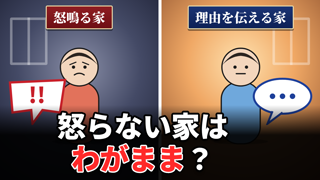
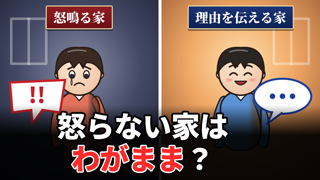
ヒト図鑑サムネ：表情つきの漫画風人物でラフを作り直し、Gemini 用の挿絵依頼文を追加（表情で参考サムネと差別化）
Claude-Session: https://claude.ai/code/session_01Hy8jqjRYqVWafwMXUy1tDD

diff --git a/video/src/HitoCharacter.tsx b/video/src/HitoCharacter.tsx
@@ -1,0 +1,149 @@
+// ヒト図鑑の人物（自作 SVG・漫画風）。社長指示 2026-11-28：参考サムネの漫画風の描き方を取り入れ、
+// 参考にない「はっきりした表情」で差別化する。他者の画像のトレース・流用はしない。
+import React from 'react';
+
+export type Expression = 'happy' | 'neutral' | 'worried' | 'shocked' | 'sad' | 'proud';
+export type Build = 'slim' | 'round' | 'child' | 'adult';
+
+const LINE = '#2a1d17';
+
+const Eyes: React.FC<{e: Expression}> = ({e}) => {
+  if (e === 'happy' || e === 'proud') {
+    // 笑って細くなった目
+    return (
+      <g stroke={LINE} strokeWidth="7" fill="none" strokeLinecap="round">
+        <path d="M -48 -2 Q -32 -20 -16 -2" />
+        <path d="M 16 -2 Q 32 -20 48 -2" />
+      </g>
+    );
+  }
+  const r = e === 'shocked' ? 17 : 15;
+  const pupil = e === 'shocked' ? 6 : 10;
+  return (
+    <g>
+      {[-32, 32].map((x) => (
+        <g key={x}>
+          <ellipse cx={x} cy="-4" rx={r * 0.85} ry={r * 1.15} fill="#fff" stroke={LINE} strokeWidth="5" />
+          <circle cx={x + (e === 'worried' || e === 'sad' ? 0 : 2)} cy={e === 'sad' ? 2 : -1} r={pupil} fill="#2b2b3a" />
+          <circle cx={x + 5} cy="-9" r="4" fill="#fff" />
+        </g>
+      ))}
+    </g>
+  );
+};
+
+const Brows: React.FC<{e: Expression}> = ({e}) => {
+  const d: Record<Expression, string> = {
+    happy: 'M -50 -38 Q -32 -50 -14 -40 M 14 -40 Q 32 -50 50 -38',
+    proud: 'M -50 -40 Q -32 -52 -14 -44 M 14 -44 Q 32 -52 50 -40',
+    neutral: 'M -48 -36 L -16 -38 M 16 -38 L 48 -36',
+    worried: 'M -50 -30 L -16 -44 M 16 -44 L 50 -30',
+    sad: 'M -50 -28 L -16 -44 M 16 -44 L 50 -28',
+    shocked: 'M -50 -48 Q -32 -60 -14 -50 M 14 -50 Q 32 -60 50 -48',
+  };
+  return <path d={d[e]} stroke={LINE} strokeWidth="7" fill="none" strokeLinecap="round" />;
+};
+
+const Mouth: React.FC<{e: Expression}> = ({e}) => {
+  switch (e) {
+    case 'happy':
+      return <path d="M -26 26 Q 0 58 26 26 Z" fill="#b8323a" stroke={LINE} strokeWidth="5" strokeLinejoin="round" />;
+    case 'proud':
+      return <path d="M -22 32 Q 4 46 26 26" stroke={LINE} strokeWidth="6" fill="none" strokeLinecap="round" />;
+    case 'shocked':
+      return <ellipse cx="0" cy="38" rx="15" ry="20" fill="#6b1f25" stroke={LINE} strokeWidth="5" />;
+    case 'worried':
+      return <path d="M -22 40 Q -8 30 0 36 Q 8 42 22 32" stroke={LINE} strokeWidth="6" fill="none" strokeLinecap="round" />;
+    case 'sad':
+      return <path d="M -22 44 Q 0 24 22 44" stroke={LINE} strokeWidth="6" fill="none" strokeLinecap="round" />;
+    default:
+      return <path d="M -18 36 L 18 36" stroke={LINE} strokeWidth="6" strokeLinecap="round" />;
+  }
+};
+
+// 感情の記号（汗・涙・ほほの赤み）
+const Extras: React.FC<{e: Expression}> = ({e}) => (
+  <g>
+    {e === 'happy' || e === 'proud' ? (
+      <>
+        <ellipse cx="-52" cy="20" rx="14" ry="8" fill="#ff8a8a" opacity="0.6" />
+        <ellipse cx="52" cy="20" rx="14" ry="8" fill="#ff8a8a" opacity="0.6" />
+      </>
+    ) : null}
+    {e === 'worried' || e === 'shocked' ? <path d="M 74 -46 Q 88 -20 74 -14 Q 60 -20 74 -46 Z" fill="#8fd3ff" stroke={LINE} strokeWidth="4" /> : null}
+    {e === 'sad' ? <path d="M -34 14 Q -40 36 -34 44 Q -28 36 -34 14 Z" fill="#8fd3ff" stroke={LINE} strokeWidth="3" /> : null}
+  </g>
+);
+
+export const HitoCharacter: React.FC<{
+  build?: Build;
+  expression?: Expression;
+  shirt: string;
+  hair?: string;
+  size?: number;
+  armPose?: 'down' | 'hold' | 'raise';
+  longHair?: boolean;
+}> = ({build = 'adult', expression = 'neutral', shirt, hair = '#3a2a22', size = 560, armPose = 'down', longHair = false}) => {
+  const child = build === 'child';
+  const bodyW = build === 'round' ? 290 : build === 'slim' ? 170 : child ? 180 : 210;
+  const headR = child ? 98 : 86;
+  const headY = child ? 190 : 150;
+  const bodyTop = headY + headR - 14;
+  const bodyH = child ? 260 : 330;
+  const cx = 300;
+  const armY = bodyTop + 40;
+  const armL =
+    armPose === 'raise'
+      ? `M ${cx - bodyW / 2 + 16} ${armY} Q ${cx - bodyW / 2 - 70} ${armY - 60} ${cx - bodyW / 2 - 60} ${armY - 150}`
+      : armPose === 'hold'
+        ? `M ${cx - bodyW / 2 + 16} ${armY} Q ${cx - bodyW / 2 - 40} ${armY + 90} ${cx - 30} ${armY + 120}`
+        : `M ${cx - bodyW / 2 + 16} ${armY} Q ${cx - bodyW / 2 - 34} ${armY + 100} ${cx - bodyW / 2 - 10} ${armY + 190}`;
+  const armR =
+    armPose === 'hold'
+      ? `M ${cx + bodyW / 2 - 16} ${armY} Q ${cx + bodyW / 2 + 40} ${armY + 90} ${cx + 30} ${armY + 120}`
+      : `M ${cx + bodyW / 2 - 16} ${armY} Q ${cx + bodyW / 2 + 34} ${armY + 100} ${cx + bodyW / 2 + 10} ${armY + 190}`;
+  return (
+    <svg width={size} height={size * 1.1} viewBox="0 0 600 660">
+      <defs>
+        <linearGradient id={`shade-${shirt.slice(1)}`} x1="0" y1="0" x2="1" y2="0">
+          <stop offset="0" stopColor={shirt} />
+          <stop offset="0.7" stopColor={shirt} />
+          <stop offset="1" stopColor="#000" stopOpacity="0.35" />
+        </linearGradient>
+        <radialGradient id="skin" cx="40%" cy="35%" r="75%">
+          <stop offset="0" stopColor="#ffe6d2" />
+          <stop offset="1" stopColor="#efc2a0" />
+        </radialGradient>
+      </defs>
+      {longHair ? <path d={`M ${cx - headR - 14} ${headY - 10} Q ${cx - headR - 40} ${headY + headR * 1.9} ${cx - headR * 0.4} ${headY + headR * 1.8} L ${cx + headR * 0.4} ${headY + headR * 1.8} Q ${cx + headR + 40} ${headY + headR * 1.9} ${cx + headR + 14} ${headY - 10} Z`} fill={hair} stroke={LINE} strokeWidth="6" /> : null}
+      {/* 胴体と腕 */}
+      <path d={armL} stroke={LINE} strokeWidth="44" fill="none" strokeLinecap="round" />
+      <path d={armL} stroke={shirt} strokeWidth="32" fill="none" strokeLinecap="round" />
+      <path d={armR} stroke={LINE} strokeWidth="44" fill="none" strokeLinecap="round" />
+      <path d={armR} stroke={shirt} strokeWidth="32" fill="none" strokeLinecap="round" />
+      <rect x={cx - bodyW / 2} y={bodyTop} width={bodyW} height={bodyH} rx={bodyW / 2.4} fill={`url(#shade-${shirt.slice(1)})`} stroke={LINE} strokeWidth="7" />
+      <path d={`M ${cx - 34} ${bodyTop + 2} L ${cx} ${bodyTop + 40} L ${cx + 34} ${bodyTop + 2}`} fill="#fff" stroke={LINE} strokeWidth="5" />
+      {/* 頭 */}
+      <g transform={`translate(${cx} ${headY})`}>
+        <ellipse cx={-headR + 4} cy="6" rx="14" ry="20" fill="url(#skin)" stroke={LINE} strokeWidth="5" />
+        <ellipse cx={headR - 4} cy="6" rx="14" ry="20" fill="url(#skin)" stroke={LINE} strokeWidth="5" />
+        <ellipse rx={headR} ry={headR * 1.02} fill="url(#skin)" stroke={LINE} strokeWidth="7" />
+        {/* 髪（前髪の束） */}
+        <path
+          d={`M ${-headR - 6} 4 Q ${-headR - 10} ${-headR * 1.25} 0 ${-headR * 1.14} Q ${headR + 10} ${-headR * 1.25} ${headR + 6} 4 Q ${headR * 0.7} ${-headR * 0.55} ${headR * 0.3} ${-headR * 0.45} L ${headR * 0.18} ${-headR * 0.2} L 0 ${-headR * 0.5} L ${-headR * 0.25} ${-headR * 0.22} L ${-headR * 0.42} ${-headR * 0.5} Q ${-headR * 0.8} ${-headR * 0.45} ${-headR - 6} 4 Z`}
+          fill={hair}
+          stroke={LINE}
+          strokeWidth="6"
+          strokeLinejoin="round"
+        />
+        <path d={`M ${-headR * 0.5} ${-headR * 0.95} Q ${-headR * 0.1} ${-headR * 1.08} ${headR * 0.3} ${-headR * 0.98}`} stroke="#fff" strokeWidth="6" opacity="0.35" fill="none" strokeLinecap="round" />
+        <g transform={`translate(0 ${headR * 0.12})`}>
+          <Brows e={expression} />
+          <Eyes e={expression} />
+          <Mouth e={expression} />
+          <Extras e={expression} />
+        </g>
+      </g>
+    </svg>
+  );
+};

diff --git a/video/src/HitoThumbnail.tsx b/video/src/HitoThumbnail.tsx
@@ -3,6 +3,7 @@
 import React from 'react';
 import {AbsoluteFill, Img, staticFile} from 'remotion';
 import {Character, EpisodeScript, ThumbDraft, ThumbProp} from './types';
+import {HitoCharacter} from './HitoCharacter';
 
 const font = '"Noto Sans JP", sans-serif';
 const serif = '"Noto Serif JP", serif';
@@ -185,13 +186,13 @@ export const HitoThumbnail: React.FC<EpisodeScript & {draft?: ThumbDraft}> = (pr
     const face = (s === 'left' ? d.leftFace : d.rightFace) ?? 'neutral';
     const prop = s === 'left' ? d.leftProp : d.rightProp;
     const img = s === 'left' ? d.leftImage : d.rightImage;
-    const figTop = comp === 'top' ? 330 : 70;
+    const figTop = comp === 'top' ? 340 : 120;
     return (
       <div style={{position: 'relative', flex: 1, overflow: 'hidden'}}>
         <Room mood={mood} side={s} />
         {img ? <Img src={staticFile(img)} style={{position: 'absolute', inset: 0, width: '100%', height: '100%', objectFit: 'cover'}} /> : null}
-        {img ? null : <div style={{position: 'absolute', left: 0, right: 0, top: figTop, display: 'flex', justifyContent: 'center', transform: 'scale(0.82)', transformOrigin: 'top center'}}>
-          <Figure ch={ch} shirt={s === 'left' ? '#e2725b' : '#6fa8dc'} mood={face} />
+        {img ? null : <div style={{position: 'absolute', left: 0, right: 0, top: figTop, display: 'flex', justifyContent: 'center', transform: 'scale(0.9)', transformOrigin: 'top center'}}>
+          <HitoCharacter build={ch?.build} expression={face} shirt={s === 'left' ? '#e2725b' : '#5b93d6'} hair={s === 'left' ? '#3a2a22' : '#2a2522'} armPose={(s === 'left' ? d.leftArm : d.rightArm) ?? 'down'} longHair={ch?.hair === 'long'} size={600} />
         </div>}
         {img ? null : <div style={{position: 'absolute', left: s === 'left' ? 20 : undefined, right: s === 'right' ? 20 : undefined, top: comp === 'top' ? 420 : 300}}>
           <Prop kind={prop} />
@@ -219,7 +220,7 @@ export const HitoThumbnail: React.FC<EpisodeScript & {draft?: ThumbDraft}> = (pr
           {copyBlock}
         </div>
       ) : comp === 'center' ? (
-        <div style={{position: 'absolute', left: 0, right: 0, top: 270, display: 'flex', justifyContent: 'center'}}>{copyBlock}</div>
+        <div style={{position: 'absolute', left: 0, right: 0, top: 440, display: 'flex', justifyContent: 'center'}}>{copyBlock}</div>
       ) : (
         <div style={{position: 'absolute', left: 0, right: 0, bottom: 0, height: 300, background: 'linear-gradient(transparent, rgba(0,0,0,0.92) 40%)', display: 'flex', justifyContent: 'center', alignItems: 'flex-end', paddingBottom: 26, paddingRight: 140}}>
           {copyBlock}

diff --git a/video/src/types.ts b/video/src/types.ts
@@ -9,6 +9,7 @@ export type Character = {
   label: string;
   tone?: 'warm' | 'cool' | 'neutral';
   build?: 'slim' | 'round' | 'child' | 'adult';
+  hair?: 'short' | 'long';
 };
 
 export type Scene = {
@@ -41,8 +42,10 @@ export type ThumbDraft = {
   badge?: string; // 時計・年齢（例："7:00"、"15歳"）
   leftMood?: 'warm' | 'cool' | 'dim';
   rightMood?: 'warm' | 'cool' | 'dim';
-  leftFace?: 'happy' | 'neutral' | 'worried';
-  rightFace?: 'happy' | 'neutral' | 'worried';
+  leftFace?: 'happy' | 'neutral' | 'worried' | 'shocked' | 'sad' | 'proud';
+  rightFace?: 'happy' | 'neutral' | 'worried' | 'shocked' | 'sad' | 'proud';
+  leftArm?: 'down' | 'hold' | 'raise';
+  rightArm?: 'down' | 'hold' | 'raise';
   leftProp?: ThumbProp;
   rightProp?: ThumbProp;
   leftImage?: string; // video/public からの相対パス（画像生成・無料写真。06c_thumbnail_assets.md に記録）

diff --git a/channels/hito-zukan/gemini_thumbnail_prompts.md b/channels/hito-zukan/gemini_thumbnail_prompts.md
@@ -1,0 +1,45 @@
+# Gemini で作るサムネの挿絵（ヒト図鑑）
+
+社長指示（2026-11-28）：参考サムネの漫画風を取り入れ、**参考にない「はっきりした表情」で差別化**する。Gemini に頼んでよい。
+Claude からは Gemini を直接動かせない（API キーは使わないルール）ため、社長が Gemini アプリ（無料枠またはご契約のプラン内＝追加費用0）に下の文を貼って作る。
+
+## 作った画像の置き場所
+- `video/public/thumbs/<エピソードID>/<案>_left.png`・`<案>_right.png`（例：`video/public/thumbs/hito-001-thin-fat-day/A_left.png`）
+- 置いたら Claude に伝えてください。`script.json` の `thumbnailDrafts` に `leftImage`・`rightImage` を指定し、左右ラベル・時計・コピーを重ねてレンダーします。
+- 各話の `06c_thumbnail_assets.md` に「Gemini・追加費用0・作成日」を記録します。
+- 他人のサムネや画像を Gemini に読み込ませて「同じように」とは頼まない（丸パクリ防止）。
+
+共通の指定（毎回この文から始める）：
+「YouTubeサムネイル用の挿絵を1枚描いてください。縦長（縦横比 8:9）。日本の漫画・アニメ風だが、光と影は映画のように描き込んだ半写実のデジタルイラスト。人物の**表情ははっきり大きく**描く（目・眉・口で感情が一目で分かる）。背景は少しぼかし、人物にスポットライトのような光を当てる。文字・ロゴ・透かしは入れない。実在の人物・有名キャラクターに似せない。」
+
+## hito-001-thin-fat-day
+- **A 左（痩せている人・りょう）**：35歳の日本人男性会社員、細身。昼のオフィスで大盛りの定食を前に、目を丸くして驚いている。暖色の窓の光。
+- **A 右（太っている人・たくみ）**：35歳の日本人男性会社員、ふくよかな体型（からかう描き方はしない、清潔な身なり）。同じ大盛りの定食を前に、目を丸くして驚いている。寒色の光。
+- **B 左**：同じ男性（細身）、朝7時の台所でトーストを食べて笑顔。朝の光。
+- **B 右**：同じ男性（ふくよか）、朝7時、コーヒーだけを持って急いで家を出る、ふつうの表情。青い朝の光。
+- **C 左**：同じ男性（細身）、オフィスで立ち上がって電話をしている、落ち着いた表情。
+- **C 右**：同じ男性（ふくよか）、オフィスの椅子に座ったまま考え込み、少し困った表情（落ち込ませすぎない）。
+
+## hito-002-phone-parents
+- **A 左（渡した家の子・みなと）**：5歳の日本人の子ども。夕方のリビングで一人でタブレットの動画を見て、口を開けて驚いた表情。画面の青い光が顔に当たる。
+- **A 右（渡さない家の子・ひなた）**：5歳の日本人の子ども。暖かい照明のリビングで、親と並んで絵本を読み、大きく笑っている（親は顔を描かず手元と肩だけ）。
+- **B 左**：10歳の子ども、勉強机でスマホを見ている、ふつうの表情。
+- **B 右**：10歳の子ども、外遊びから帰って笑顔。夕方の光。
+- **C 左**：2歳の子ども、ソファでスマホの動画をじっと見ている、無表情。
+- **C 右**：2歳の子ども、親と向かい合っておしゃべりし、うれしそうに笑う（親は後ろ姿）。
+
+## hito-003-yelling-parents
+- **A 左（怒鳴る家の子・れん）**：4歳の日本人の子ども。薄暗いリビングで、親に大声で叱られて涙をこらえている（親は画面外、または後ろ姿だけ。暴力の描写なし）。
+- **A 右（理由を伝える家の子・そら）**：4歳の日本人の子ども。暖かい照明で、しゃがんだ親に目線を合わせて話を聞き、ほっとした笑顔（親は後ろ姿）。
+- **B 左**：13歳の子ども、自分の部屋でうつむいて悲しそうな顔。ドアの向こうに怒った親の影だけ。
+- **B 右**：13歳の子ども、台所で親と話して少し誇らしげな顔。
+- **C 左**：20歳の若者、夜の部屋で少し不安げな表情。
+- **C 右**：20歳の若者、明るい部屋で笑顔。
+
+## hito-004-toxic-parents
+- **A 左（つらい関わりの家・ことね）**：32歳の日本人女性。少し暗い部屋で、幼い子どもを抱き、不安そうな表情で汗をかいている（暴力の描写なし）。
+- **A 右（気持ちを話せる家・ゆな）**：32歳の日本人女性。明るい部屋で、パートナーと幼い子どもと一緒に大きく笑っている。
+- **B 左**：同じ女性（ことね）、学生時代の姿で涙ぐんでいるが、そばで年上の大人（先生など、顔は描かない）が話を聞いている。
+- **B 右**：同じ女性（ゆな）、学生時代の姿で家族と話して笑っている。
+- **C 左**：同じ女性（ことね）、32歳、窓辺で子どもを見つめ、静かに決意した表情。
+- **C 右**：同じ女性（ゆな）、32歳、子どもと手をつないで笑顔。

diff --git a/episodes/hito-001-thin-fat-day/06c_thumbnail_assets.md b/episodes/hito-001-thin-fat-day/06c_thumbnail_assets.md
@@ -11,9 +11,12 @@
 - ラフは `thumbnail_drafts/A.png`〜`C.png`（320px 縮小版 `*_320.png` つき）。設定は `script.json` の `thumbnailDrafts`。
 
 ## 主役の絵を参考サムネ（社長提示、半写実イラスト）に近づける場合
-自作 SVG のままでは、参考の半写実イラストに比べて主役の質感が弱い。追加費用0で上げるには、**社長の ChatGPT プラン内の画像生成**で左右の絵を作り、`video/public/thumbs/hito-001-thin-fat-day/left.png`・`right.png` に置く（`thumbnailDrafts` の `leftImage`・`rightImage` に指定すれば、ラベル・コピーはそのまま重なる）。生成したらこの表に「ツール名・プラン内で追加費用0」を追記する。
+自作 SVG のままでは、参考の半写実イラストに比べて主役の質感が弱い。追加費用0で上げるには、**社長の Gemini（または ChatGPT）のプラン内の画像生成**で左右の絵を作り、`video/public/thumbs/hito-001-thin-fat-day/left.png`・`right.png` に置く（`thumbnailDrafts` の `leftImage`・`rightImage` に指定すれば、ラベル・コピーはそのまま重なる）。生成したらこの表に「ツール名・プラン内で追加費用0」を追記する。
 
 プロンプト案（各 640×720 の縦長、文字なし）：
 - 共通：同じオフィスで働く35歳の日本人男性の同僚2人。半写実のデジタルイラスト、映画のような局所照明、背景は少しぼかす。**顔ははっきり描かない（ぼかす・影・後ろ姿）**。文字・ロゴ・透かしを入れない。実在の人物に似せない。
 - 左：細身の男性がデスクの横で立って電話している、昼の暖かい窓の光
 - 右：ふくよかな男性がデスクに座ってパソコンに向かっている、少し暗めの寒色の光。2人とも同じ大盛りの定食が手前にある
+
+- 2026-11-28 社長指示：Gemini に依頼してよい。表情をはっきり描いて参考サムネ（顔ぼかし）と差別化する。依頼文は `channels/hito-zukan/gemini_thumbnail_prompts.md`。
+- 2026-11-28 ラフを表情つきの漫画風 SVG（`video/src/HitoCharacter.tsx`）に更新。

diff --git a/episodes/hito-003-yelling-parents/06c_thumbnail_assets.md b/episodes/hito-003-yelling-parents/06c_thumbnail_assets.md
@@ -11,9 +11,12 @@
 - ラフは `thumbnail_drafts/A.png`〜`C.png`（320px 縮小版 `*_320.png` つき）。設定は `script.json` の `thumbnailDrafts`。
 
 ## 主役の絵を参考サムネ（社長提示、半写実イラスト）に近づける場合
-自作 SVG のままでは、参考の半写実イラストに比べて主役の質感が弱い。追加費用0で上げるには、**社長の ChatGPT プラン内の画像生成**で左右の絵を作り、`video/public/thumbs/hito-003-yelling-parents/left.png`・`right.png` に置く（`thumbnailDrafts` の `leftImage`・`rightImage` に指定すれば、ラベル・コピーはそのまま重なる）。生成したらこの表に「ツール名・プラン内で追加費用0」を追記する。
+自作 SVG のままでは、参考の半写実イラストに比べて主役の質感が弱い。追加費用0で上げるには、**社長の Gemini（または ChatGPT）のプラン内の画像生成**で左右の絵を作り、`video/public/thumbs/hito-003-yelling-parents/left.png`・`right.png` に置く（`thumbnailDrafts` の `leftImage`・`rightImage` に指定すれば、ラベル・コピーはそのまま重なる）。生成したらこの表に「ツール名・プラン内で追加費用0」を追記する。
 
 プロンプト案（各 640×720 の縦長、文字なし）：
 - 共通：日本の家庭の4歳の子どもと親。半写実のデジタルイラスト、映画のような局所照明、背景は少しぼかす。**顔ははっきり描かない（ぼかす・影・後ろ姿）**。文字・ロゴ・透かしを入れない。実在の人物に似せない。
 - 左：親が大声を出していて、子どもがうつむいている、薄暗い部屋（親の顔は画面外か後ろ姿）
 - 右：親がしゃがんで子どもの目線で穏やかに話している、暖かい照明
+
+- 2026-11-28 社長指示：Gemini に依頼してよい。表情をはっきり描いて参考サムネ（顔ぼかし）と差別化する。依頼文は `channels/hito-zukan/gemini_thumbnail_prompts.md`。
+- 2026-11-28 ラフを表情つきの漫画風 SVG（`video/src/HitoCharacter.tsx`）に更新。

diff --git a/episodes/hito-004-toxic-parents/06c_thumbnail_assets.md b/episodes/hito-004-toxic-parents/06c_thumbnail_assets.md
@@ -11,9 +11,12 @@
 - ラフは `thumbnail_drafts/A.png`〜`C.png`（320px 縮小版 `*_320.png` つき）。設定は `script.json` の `thumbnailDrafts`。
 
 ## 主役の絵を参考サムネ（社長提示、半写実イラスト）に近づける場合
-自作 SVG のままでは、参考の半写実イラストに比べて主役の質感が弱い。追加費用0で上げるには、**社長の ChatGPT プラン内の画像生成**で左右の絵を作り、`video/public/thumbs/hito-004-toxic-parents/left.png`・`right.png` に置く（`thumbnailDrafts` の `leftImage`・`rightImage` に指定すれば、ラベル・コピーはそのまま重なる）。生成したらこの表に「ツール名・プラン内で追加費用0」を追記する。
+自作 SVG のままでは、参考の半写実イラストに比べて主役の質感が弱い。追加費用0で上げるには、**社長の Gemini（または ChatGPT）のプラン内の画像生成**で左右の絵を作り、`video/public/thumbs/hito-004-toxic-parents/left.png`・`right.png` に置く（`thumbnailDrafts` の `leftImage`・`rightImage` に指定すれば、ラベル・コピーはそのまま重なる）。生成したらこの表に「ツール名・プラン内で追加費用0」を追記する。
 
 プロンプト案（各 640×720 の縦長、文字なし）：
 - 共通：日本の30代の母親と幼い子ども。半写実のデジタルイラスト、映画のような局所照明、背景は少しぼかす。**顔ははっきり描かない（ぼかす・影・後ろ姿）**。文字・ロゴ・透かしを入れない。実在の人物に似せない。
 - 左：少し暗い部屋で、疲れた表情の母親が子どもを抱いている（暴力の描写なし）
 - 右：明るい部屋で、母親とパートナーが子どもと一緒に笑っている
+
+- 2026-11-28 社長指示：Gemini に依頼してよい。表情をはっきり描いて参考サムネ（顔ぼかし）と差別化する。依頼文は `channels/hito-zukan/gemini_thumbnail_prompts.md`。
+- 2026-11-28 ラフを表情つきの漫画風 SVG（`video/src/HitoCharacter.tsx`）に更新。

diff --git a/episodes/hito-002-phone-parents/06c_thumbnail_assets.md b/episodes/hito-002-phone-parents/06c_thumbnail_assets.md
@@ -11,9 +11,12 @@
 - ラフは `thumbnail_drafts/A.png`〜`C.png`（320px 縮小版 `*_320.png` つき）。設定は `script.json` の `thumbnailDrafts`。
 
 ## 主役の絵を参考サムネ（社長提示、半写実イラスト）に近づける場合
-自作 SVG のままでは、参考の半写実イラストに比べて主役の質感が弱い。追加費用0で上げるには、**社長の ChatGPT プラン内の画像生成**で左右の絵を作り、`video/public/thumbs/hito-002-phone-parents/left.png`・`right.png` に置く（`thumbnailDrafts` の `leftImage`・`rightImage` に指定すれば、ラベル・コピーはそのまま重なる）。生成したらこの表に「ツール名・プラン内で追加費用0」を追記する。
+自作 SVG のままでは、参考の半写実イラストに比べて主役の質感が弱い。追加費用0で上げるには、**社長の Gemini（または ChatGPT）のプラン内の画像生成**で左右の絵を作り、`video/public/thumbs/hito-002-phone-parents/left.png`・`right.png` に置く（`thumbnailDrafts` の `leftImage`・`rightImage` に指定すれば、ラベル・コピーはそのまま重なる）。生成したらこの表に「ツール名・プラン内で追加費用0」を追記する。
 
 プロンプト案（各 640×720 の縦長、文字なし）：
 - 共通：日本の家庭のリビングにいる5歳の子ども。半写実のデジタルイラスト、映画のような局所照明、背景は少しぼかす。**顔ははっきり描かない（ぼかす・影・後ろ姿）**。文字・ロゴ・透かしを入れない。実在の人物に似せない。
 - 左：夕方のリビングでタブレットの動画を一人で見ている子ども、画面の青い光
 - 右：暖かい照明の下で親と並んで絵本を読んでいる子ども
+
+- 2026-11-28 社長指示：Gemini に依頼してよい。表情をはっきり描いて参考サムネ（顔ぼかし）と差別化する。依頼文は `channels/hito-zukan/gemini_thumbnail_prompts.md`。
+- 2026-11-28 ラフを表情つきの漫画風 SVG（`video/src/HitoCharacter.tsx`）に更新。

diff --git a/docs/チャンネル方針.md b/docs/チャンネル方針.md
@@ -31,3 +31,4 @@
 | 2026-11-28 | **Codex の監査は当面不要。社長が直接確認する**（社長チャット「Codexの監査は一旦不要、私が確認します」）。Claude は `@codex review` を依頼せず、成果物ができたら社長に確認を依頼する。サムネの**作成**は引き続き Codex（監査ではないため）。再開の指示があるまでこの扱い | `CLAUDE.md` / `pipeline/README.md` |
 | 2026-11-28 | **サムネの作成も Claude が行う**（Codex 側にこのリポジトリ用の環境がなく作業できないため。社長が選択）。ラフ3案→社長が方向を選ぶ→完成版、競合5本以上の分析（06b）・素材記録（06c）・サムネ基準は従来どおり。確認は社長が直接行う | `CLAUDE.md` / `AGENTS.md` / `pipeline/README.md` |
 | 2026-11-28 | ヒト図鑑のサムネの方向性は、社長提示の参考サムネ（ヒト科研究所の6枚：半写実イラスト・顔ぼかし・左右で光を変える・暗赤／紺の明朝ラベル・下に白＋赤の問いのコピー）を参考にする | `channels/hito-zukan/CHANNEL.md` |
+| 2026-11-28 | サムネは参考サムネの漫画風（半写実イラスト）を取り入れ、**参考にない「はっきりした表情」で差別化**する。主役の挿絵は Gemini に依頼してよい（社長が Gemini アプリで作成、追加費用0）。他者の画像のトレース・読み込みによる模写はしない | `channels/hito-zukan/CHANNEL.md` / `channels/hito-zukan/gemini_thumbnail_prompts.md` |

diff --git a/channels/hito-zukan/CHANNEL.md b/channels/hito-zukan/CHANNEL.md
@@ -38,3 +38,4 @@
 - 左右ラベルは、暗い赤と紺の箱に太い明朝体（このチャンネルでは Noto Serif JP 900、OFL）
 - 下のコピーは1〜2行。前半は白、要の語は赤（白フチ＋黒フチ）。「どれだけ差がつく？」「決定的な違い」型の問い（文言そのものは使わない）
 - 時間の流れを矢印・年齢で見せる例もある（「20代→80代」）
+- **差別化：人物にはっきりした表情を付ける**（参考は顔をぼかしている）。社長指示 2026-11-28。挿絵は Gemini 可（`gemini_thumbnail_prompts.md`）
